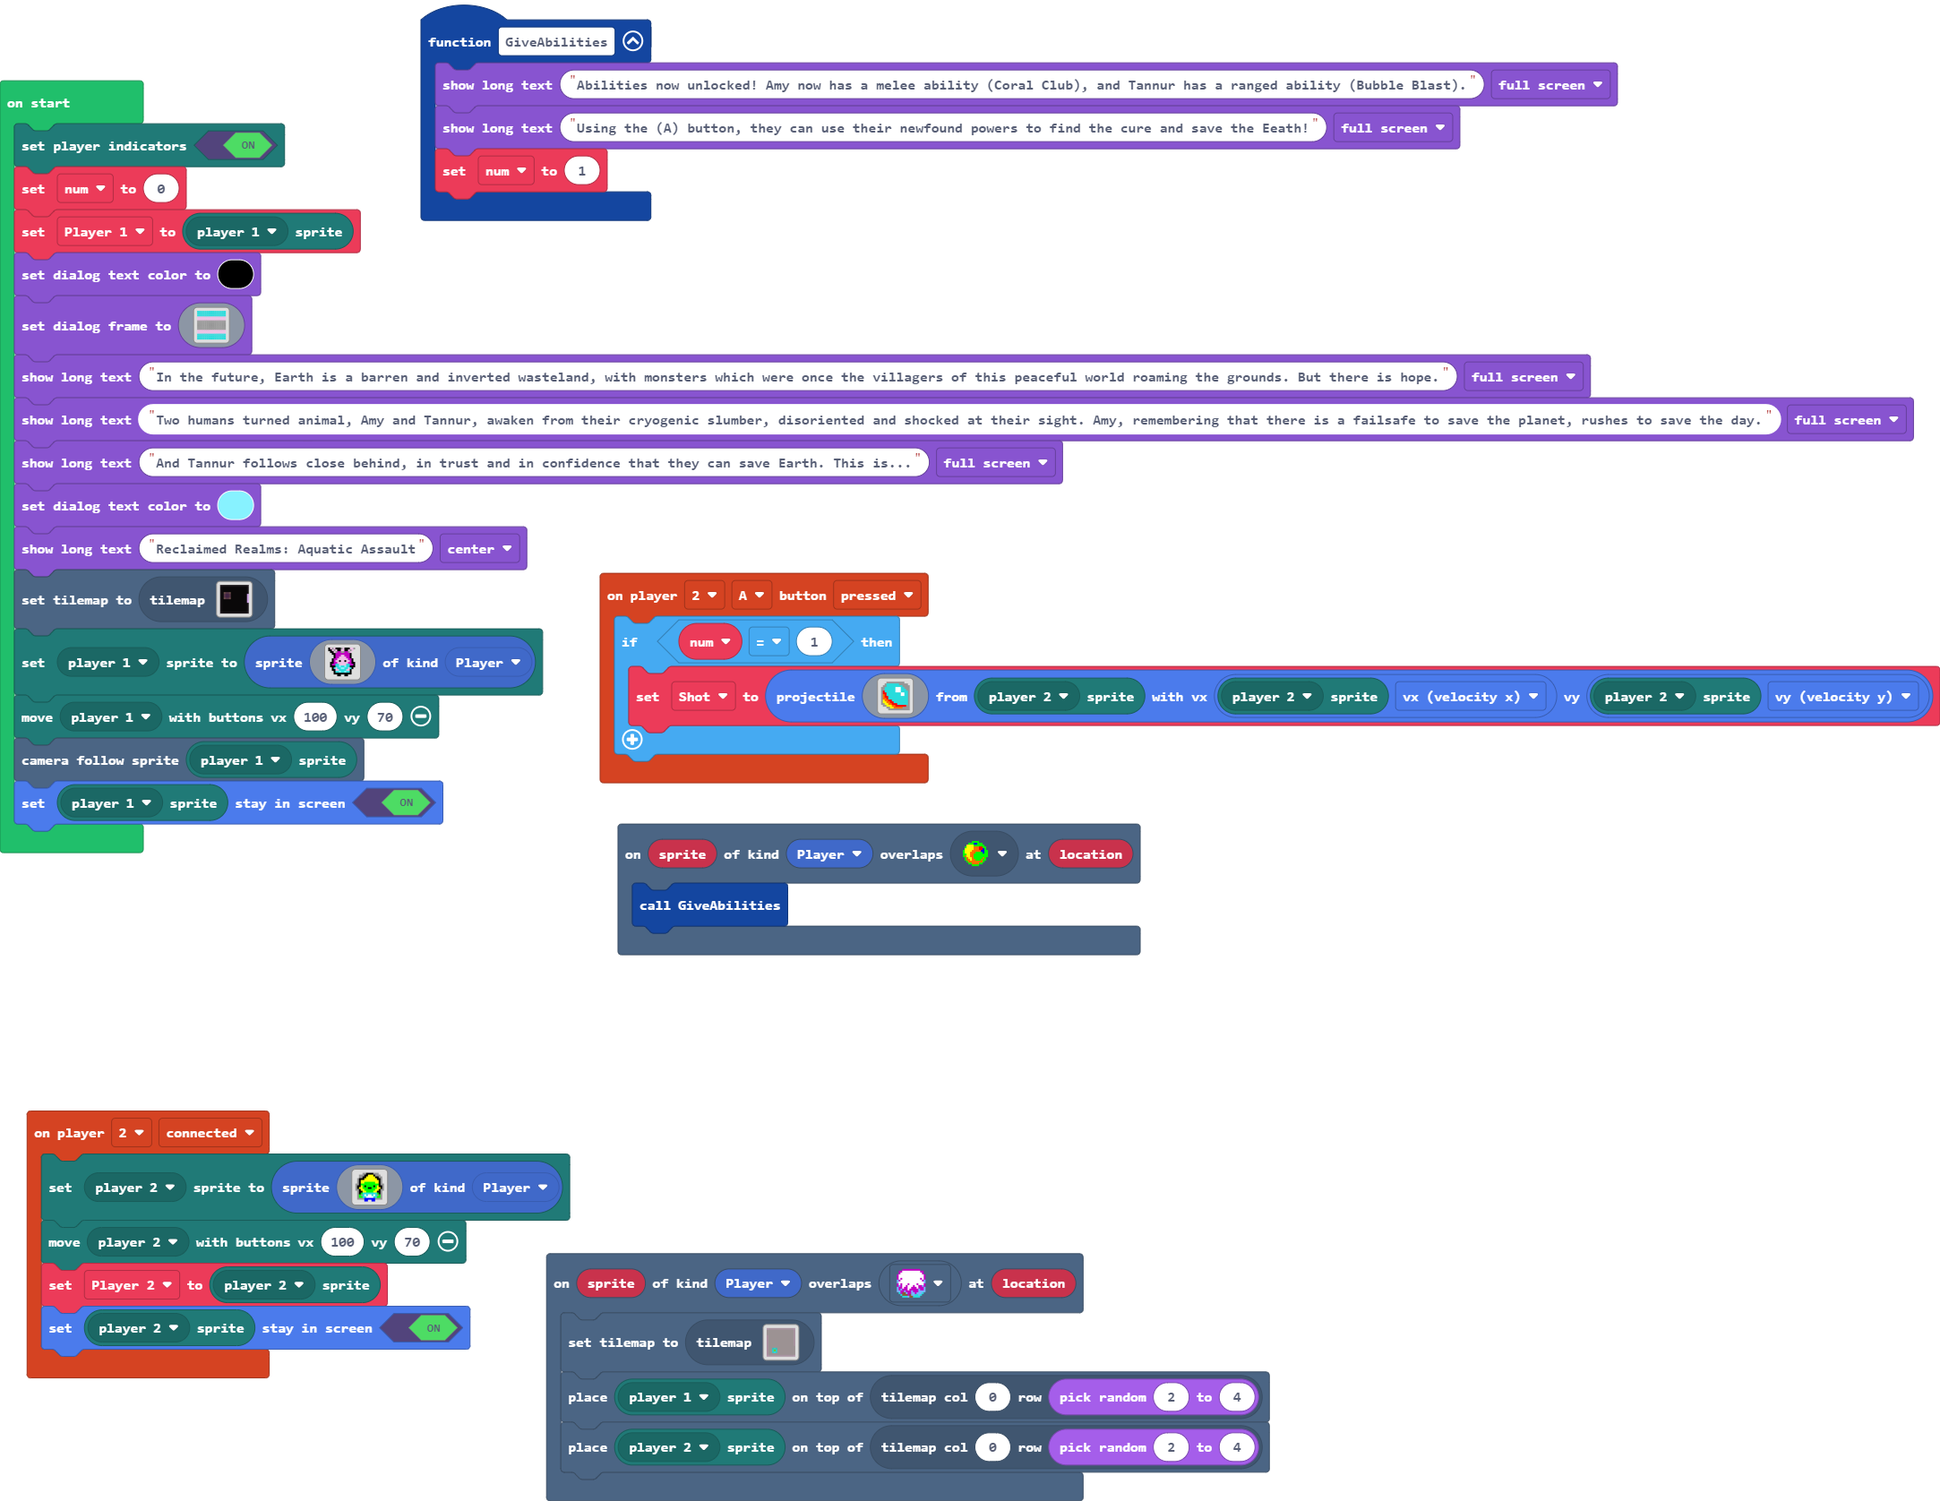
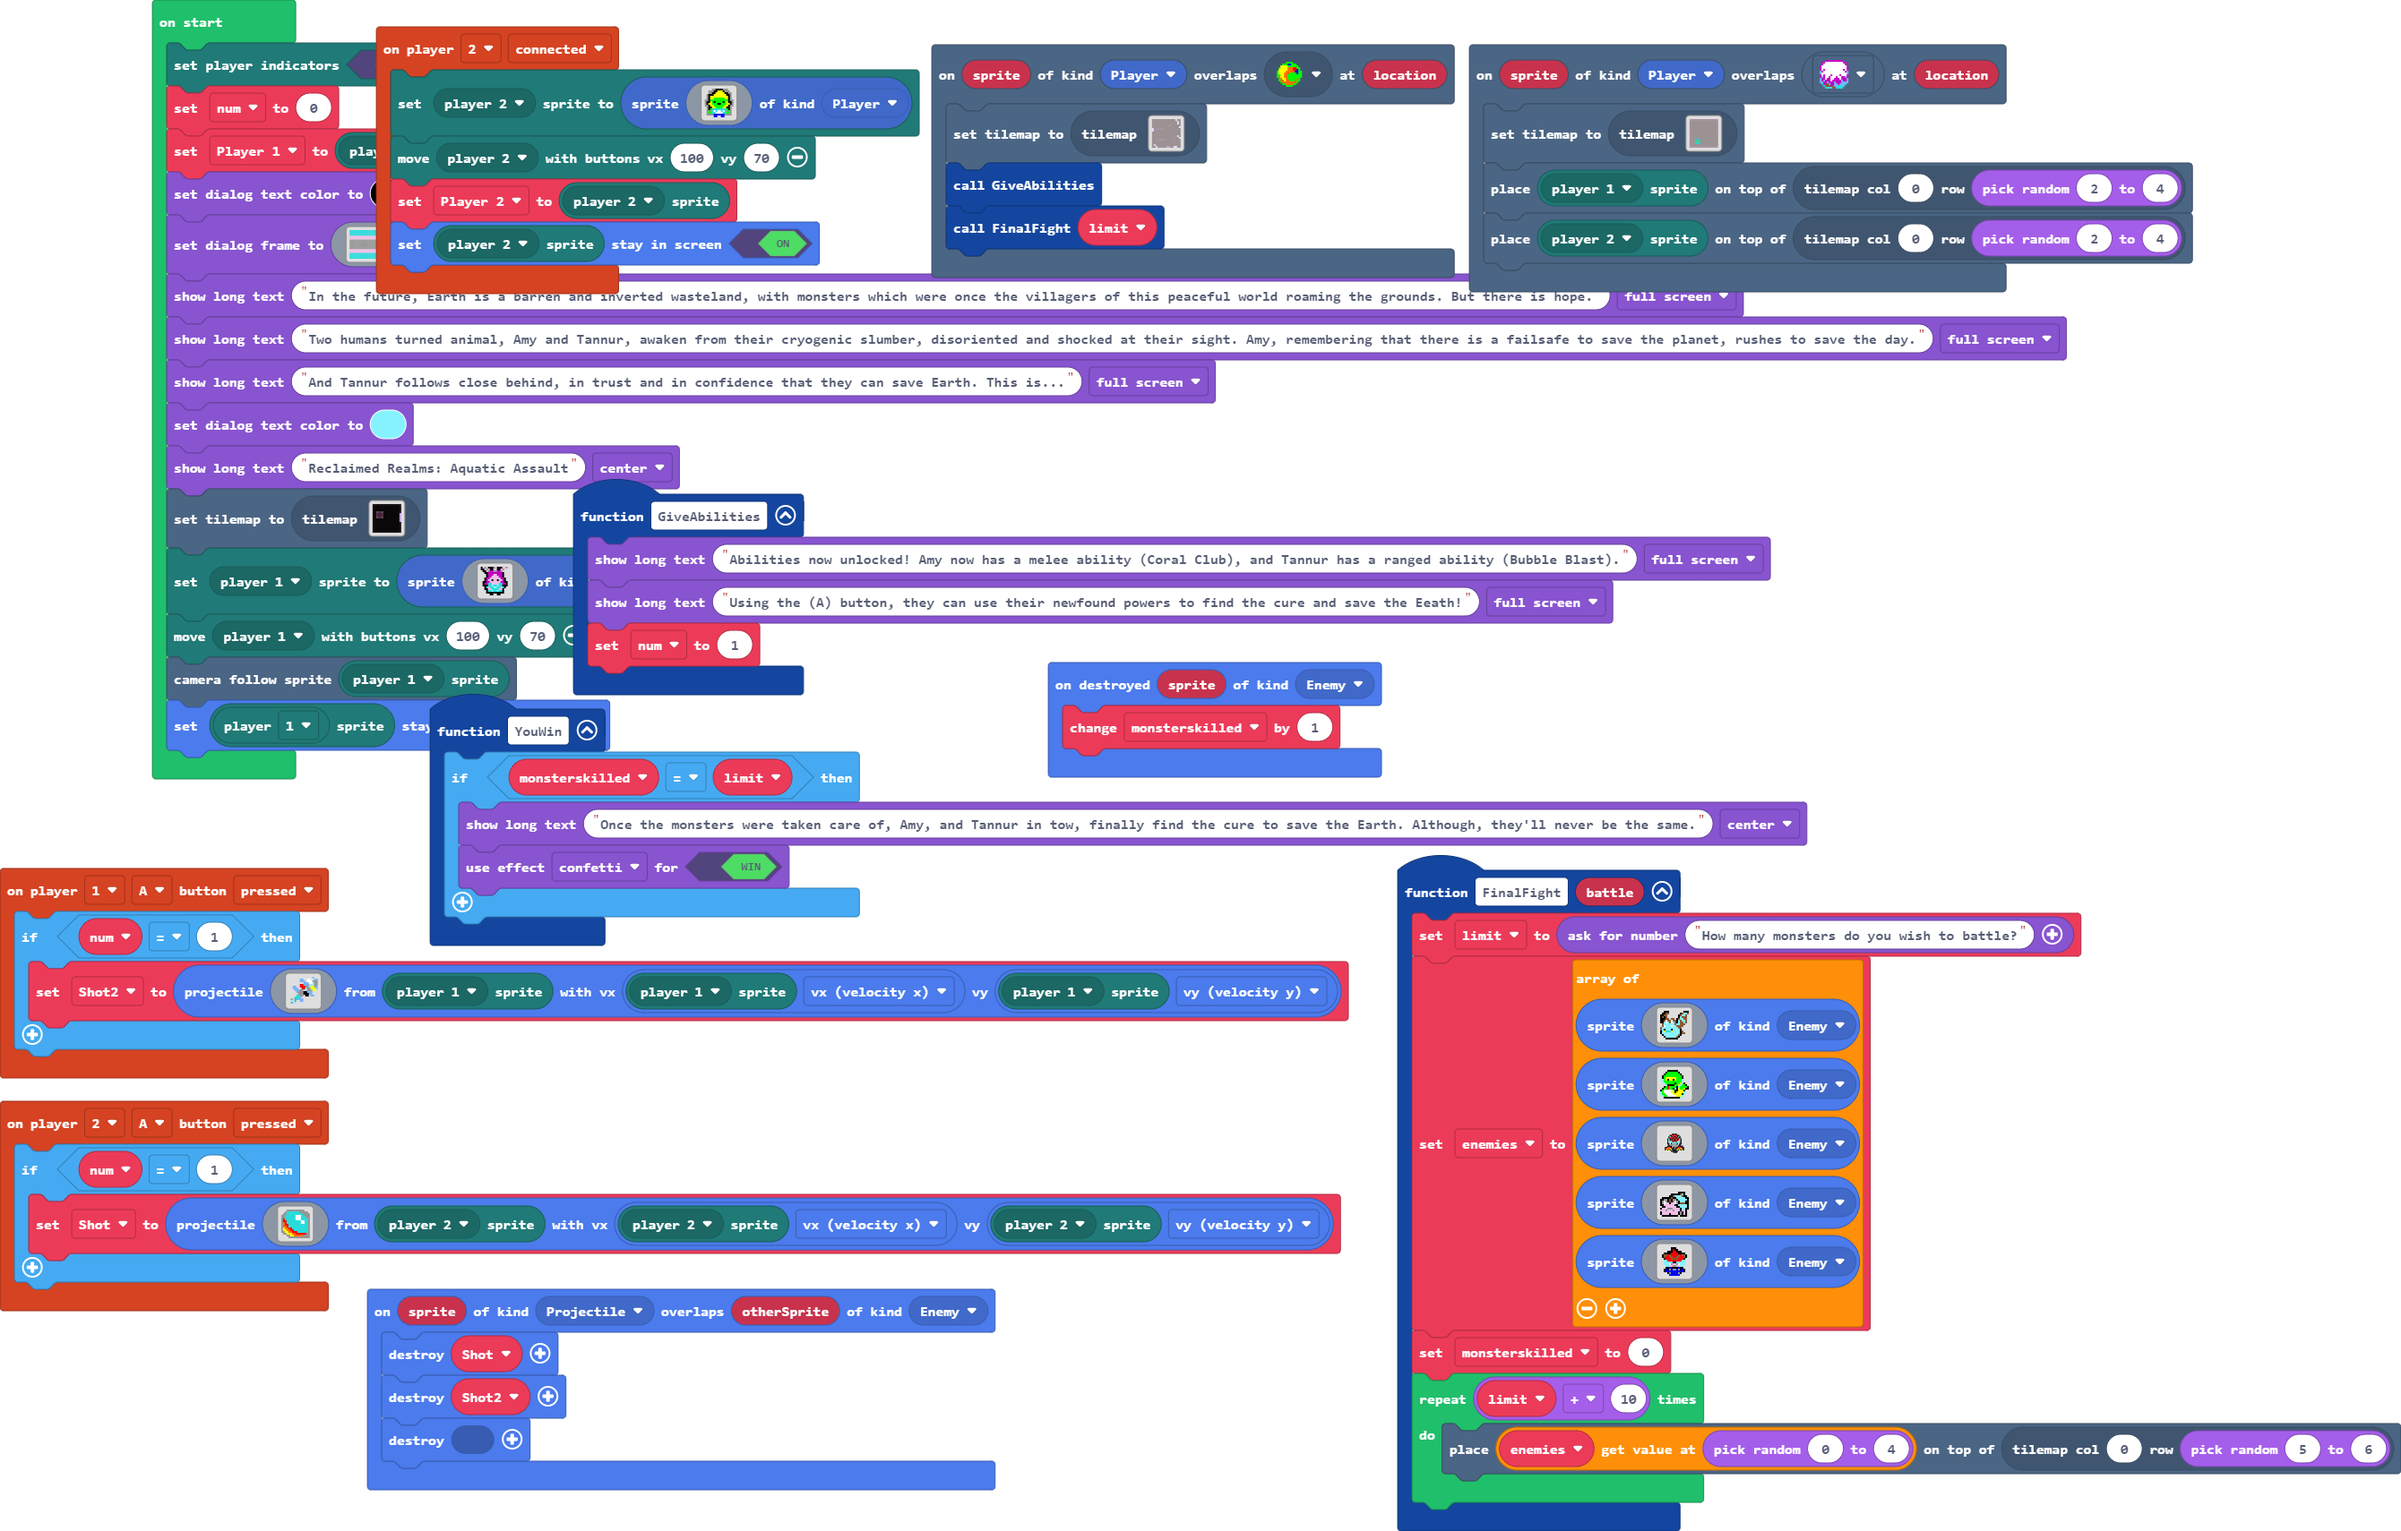
Update main.blocks, main.ts, images.g.jres, images.g.ts, tilemap.g.jres, tilemap.g.ts

diff --git a/tilemap.g.ts b/tilemap.g.ts
@@ -81,25 +81,6 @@ namespace myTiles {
 . . . . . . . . . . . . . . . . 
 . . . . . . . . . . . . . . . . 
 `, [myTiles.transparency16], TileScale.Sixteen);
-            case "FinalLevel":
-            case "level2":return tiles.createTilemap(hex`1000100001010101010101010101010101060101010501010101010101010101010106010105010101010101010101010101060101010101010101010102020101010101010101010101010101010101010101060601020202020201010101010101010106010101010101010101010101010101010101010101010101010101010101010101010101010101010101010101010101010101010101010101010101010601010101010101010101010101040101060101030303030303010101010401010101010101010101010101010104010101010101010101010101010101040101010106010101010101010101010101010101010601010101010707010106060101`, img`
-2 2 2 2 2 2 2 2 2 2 2 2 2 . 2 2 
-2 2 . . . . . . . . . . . . . 2 
-2 2 . . . . . . . . . . . . . 2 
-2 . . . . . . . . 2 2 . . . . 2 
-2 . . . . . . . . . . . . . . . 
-. . 2 2 2 2 2 . . . . . . . . 2 
-. . . . . . . . . . . . . . . 2 
-2 . . . . . . . . . . . . . . 2 
-2 . . . . . . . . . . . . . . 2 
-2 . . . . . . . . . . . . . . 2 
-2 . . . . . . . . . . . 2 . . . 
-2 . 2 2 2 2 2 2 . . . . 2 . . 2 
-2 . . . . . . . . . . . 2 . . 2 
-2 . . . . . . . . . . . 2 . . 2 
-2 . . . . . . . . . . . . . . 2 
-2 2 . 2 2 2 2 2 . . 2 2 . . 2 2 
-`, [myTiles.transparency16,sprites.castle.tilePath5,sprites.castle.tilePath2,sprites.castle.tilePath8,sprites.castle.tilePath6,sprites.castle.tilePath4,sprites.castle.tileGrass3,sprites.builtin.forestTiles12], TileScale.Sixteen);
             case "level5":
             case "level5":return tiles.createTilemap(hex`1000100000000000000000000000000000000000000000000000000000000000000000000000000000000000000000000000000000000000000000000000000000000000000000000000000000000000000000000000000000000000000000000000000000000000000000000000000000000000000000000000000000000000000000000000000000000000000000000000000000000000000000000000000000000000000000000000000000000000000000000000000000000000000000000000000000000000000000000000000000000000000000000000000000000000000000000000000000000000000000000000000000000000000000000000000000000000`, img`
 . . . . . . . . . . . . . . . . 
@@ -176,6 +157,44 @@ namespace myTiles {
 . . . . . . . . . . . . . . . . 
 . . . . . . . . . . . . . . . . 
 `, [myTiles.transparency16], TileScale.Sixteen);
+            case "level9":
+            case "level9":return tiles.createTilemap(hex`1000100000000000000000000000000000000000000000000000000000000000000000000000000000000000000000000000000000000000000000000000000000000000000000000000000000000000000000000000000000000000000000000000000000000000000000000000000000000000000000000000000000000000000000000000000000000000000000000000000000000000000000000000000000000000000000000000000000000000000000000000000000000000000000000000000000000000000000000000000000000000000000000000000000000000000000000000000000000000000000000000000000000000000000000000000000000000`, img`
+. . . . . . . . . . . . . . . . 
+. . . . . . . . . . . . . . . . 
+. . . . . . . . . . . . . . . . 
+. . . . . . . . . . . . . . . . 
+. . . . . . . . . . . . . . . . 
+. . . . . . . . . . . . . . . . 
+. . . . . . . . . . . . . . . . 
+. . . . . . . . . . . . . . . . 
+. . . . . . . . . . . . . . . . 
+. . . . . . . . . . . . . . . . 
+. . . . . . . . . . . . . . . . 
+. . . . . . . . . . . . . . . . 
+. . . . . . . . . . . . . . . . 
+. . . . . . . . . . . . . . . . 
+. . . . . . . . . . . . . . . . 
+. . . . . . . . . . . . . . . . 
+`, [myTiles.transparency16], TileScale.Sixteen);
+            case "FinalLevel":
+            case "level2":return tiles.createTilemap(hex`1000100001010101010101010101010101060101010501010101010101010101010106010105010101010101010101010101060101010101010101010102020101010101010101010101010101010101010101060601020202020201010101010101010106010101010101010101010101010101010101010101010101010101010101010101010101010101010101010101010101010101010101010101010101010601010101010101010101010101040101060101030303030303010101010401010101010101010101010101010104010101010101010101010101010101040101010106010101010101010101010101010101010601010101010707010106060101`, img`
+2 2 2 2 2 2 2 2 2 2 2 2 2 . 2 2 
+2 2 . . . . . . . . . . . . . 2 
+2 2 . . . . . . . . . . . . . 2 
+2 . . . . . . . . 2 2 . . . . 2 
+2 . . . . . . . . . . . . . . . 
+. . 2 2 2 2 2 . . . . . . . . 2 
+. . . . . . . . . . . . . . . 2 
+2 . . . . . . . . . . . . . . 2 
+2 . . . . . . . . . . . . . . 2 
+2 . . . . . . . . . . . . . . 2 
+2 . . . . . . . . . . . 2 . . . 
+2 . 2 2 2 2 2 2 . . . . 2 . . 2 
+2 . . . . . . . . . . . 2 . . 2 
+2 . . . . . . . . . . . 2 . . 2 
+2 . . . . . . . . . . . . . . 2 
+2 2 . 2 2 2 2 2 . . 2 2 . . 2 2 
+`, [myTiles.transparency16,sprites.castle.tilePath5,sprites.castle.tilePath2,sprites.castle.tilePath8,sprites.castle.tilePath6,sprites.castle.tilePath4,sprites.castle.tileGrass3,sprites.builtin.forestTiles12], TileScale.Sixteen);
         }
         return null;
     })

diff --git a/main.ts b/main.ts
@@ -8,10 +8,35 @@ controller.player2.onButtonEvent(ControllerButton.A, ControllerButtonEvent.Press
         Shot = sprites.createProjectileFromSprite(assets.image`Bubble`, mp.getPlayerSprite(mp.playerSelector(mp.PlayerNumber.Two)), mp.getPlayerSprite(mp.playerSelector(mp.PlayerNumber.Two)).vx, mp.getPlayerSprite(mp.playerSelector(mp.PlayerNumber.Two)).vy)
     }
 })
+function YouWin () {
+    if (monsterskilled == limit) {
+        game.showLongText("Once the monsters were taken care of, Amy, and Tannur in tow, finally find the cure to save the Earth. Although, they'll never be the same.", DialogLayout.Center)
+        game.setGameOverEffect(true, effects.confetti)
+    }
+}
 function GiveAbilities () {
     game.showLongText("Abilities now unlocked! Amy now has a melee ability (Coral Club), and Tannur has a ranged ability (Bubble Blast).", DialogLayout.Full)
     game.showLongText("Using the (A) button, they can use their newfound powers to find the cure and save the Eeath!", DialogLayout.Full)
     num = 1
+}
+controller.player1.onButtonEvent(ControllerButton.A, ControllerButtonEvent.Pressed, function () {
+    if (num == 1) {
+        Shot2 = sprites.createProjectileFromSprite(assets.image`CoralClub`, mp.getPlayerSprite(mp.playerSelector(mp.PlayerNumber.One)), mp.getPlayerSprite(mp.playerSelector(mp.PlayerNumber.One)).vx, mp.getPlayerSprite(mp.playerSelector(mp.PlayerNumber.One)).vy)
+    }
+})
+function FinalFight (battle: number) {
+    limit = game.askForNumber("How many monsters do you wish to battle?")
+    enemies = [
+    sprites.create(assets.image`ENEMY1`, SpriteKind.Enemy),
+    sprites.create(assets.image`ENEMY2`, SpriteKind.Enemy),
+    sprites.create(assets.image`ENEMY3`, SpriteKind.Enemy),
+    sprites.create(assets.image`ENEMY4`, SpriteKind.Enemy),
+    sprites.create(assets.image`ENEMY5`, SpriteKind.Enemy)
+    ]
+    monsterskilled = 0
+    for (let index = 0; index < limit + 10; index++) {
+        tiles.placeOnTile(enemies[randint(0, 4)], tiles.getTileLocation(0, randint(5, 6)))
+    }
 }
 controller.player2.onEvent(ControllerEvent.Connected, function () {
     mp.setPlayerSprite(mp.playerSelector(mp.PlayerNumber.Two), sprites.create(assets.image`TannurIdle`, SpriteKind.Player))
@@ -19,10 +44,24 @@ controller.player2.onEvent(ControllerEvent.Connected, function () {
     Player_2 = mp.getPlayerSprite(mp.playerSelector(mp.PlayerNumber.Two))
     mp.getPlayerSprite(mp.playerSelector(mp.PlayerNumber.Two)).setStayInScreen(true)
 })
+sprites.onDestroyed(SpriteKind.Enemy, function (sprite) {
+    monsterskilled += 1
+})
 scene.onOverlapTile(SpriteKind.Player, sprites.dungeon.collectibleRedCrystal, function (sprite, location) {
+    tiles.setCurrentTilemap(tilemap`FinalLevel`)
     GiveAbilities()
+    FinalFight(limit)
+})
+sprites.onOverlap(SpriteKind.Projectile, SpriteKind.Enemy, function (sprite, otherSprite) {
+    sprites.destroy(Shot)
+    sprites.destroy(Shot2)
+    sprites.destroy(null)
 })
 let Player_2: Sprite = null
+let enemies: Sprite[] = []
+let Shot2: Sprite = null
+let limit = 0
+let monsterskilled = 0
 let Shot: Sprite = null
 let num = 0
 mp.setPlayerIndicatorsVisible(true)

diff --git a/images.g.ts b/images.g.ts
@@ -116,6 +116,25 @@ c c c c c c c c c c c c c c c c
 c c c c c c c c c c c c c c c c 
 c c c c c c c c c c c c c c c c 
 `;
+            case "image7":
+            case "CoralClub":return img`
+. . . . . . . . . . . . . 8 . . 
+. . . . . . 8 8 . . 7 7 . . 8 8 
+. . . . . . 8 8 8 . 7 7 7 d d d 
+. . . . . . . . 8 8 8 7 7 9 d d 
+. . . . . . 1 1 8 8 d 9 b 9 d d 
+. . 8 8 . . 1 1 1 d d 9 3 3 d 8 
+. . 8 8 8 . . 1 1 9 d d 3 3 3 8 
+. . . 8 8 8 d d 9 b d d 8 3 3 . 
+. . . . 8 d d d c c 8 8 8 . . . 
+. . . . . d d d c c c 8 8 . . . 
+. . . . f f d d . c c . 8 8 . . 
+. . . f f f 8 . . . . . . . . . 
+. d 9 d f 8 8 8 . . . . . . . . 
+. 9 9 d . . 8 8 . . . . . . . . 
+. d 9 9 . . . . . . . . . . . . 
+. . . . . . . . . . . . . . . . 
+`;
             case "image8":
             case "ENEMY1":return img`
 . . c c c . . . . . . . . c c c 
@@ -218,25 +237,6 @@ c b b b b c b b b b c d c b c .
 . . c 5 5 5 5 5 5 5 5 5 5 c . . 
 . . . . c d 5 5 5 5 d c . . . . 
 . . . . . 5 5 5 5 5 5 . . . . . 
-`;
-            case "image7":
-            case "CoralClub":return img`
-. . . . . . . . . . . . . 8 . . 
-. . . . . . 8 8 . . 7 7 . . 8 8 
-. . . . . . 8 8 8 . 7 7 7 d d d 
-. . . . . . . . 8 8 8 7 7 9 d d 
-. . . . . . 1 1 8 8 d 9 b 9 d d 
-. . 8 8 . . 1 1 1 d d 9 3 3 d 8 
-. . 8 8 8 . . 1 1 9 d d 3 3 3 8 
-. . . 8 8 8 d d 9 b d d 8 3 3 . 
-. . . . 8 d d d c c 8 8 8 . . . 
-. . . . . d d d c c c 8 8 . . . 
-. . . . f f d d . c c . 8 8 . . 
-. . . f f f 8 . . . . . . . . . 
-. d 9 d f 8 8 8 . . . . . . . . 
-. 9 9 d . . 8 8 . . . . . . . . 
-. d 9 9 . . . . . . . . . . . . 
-. . . . . . . . . . . . . . . . 
 `;
         }
         return null;
